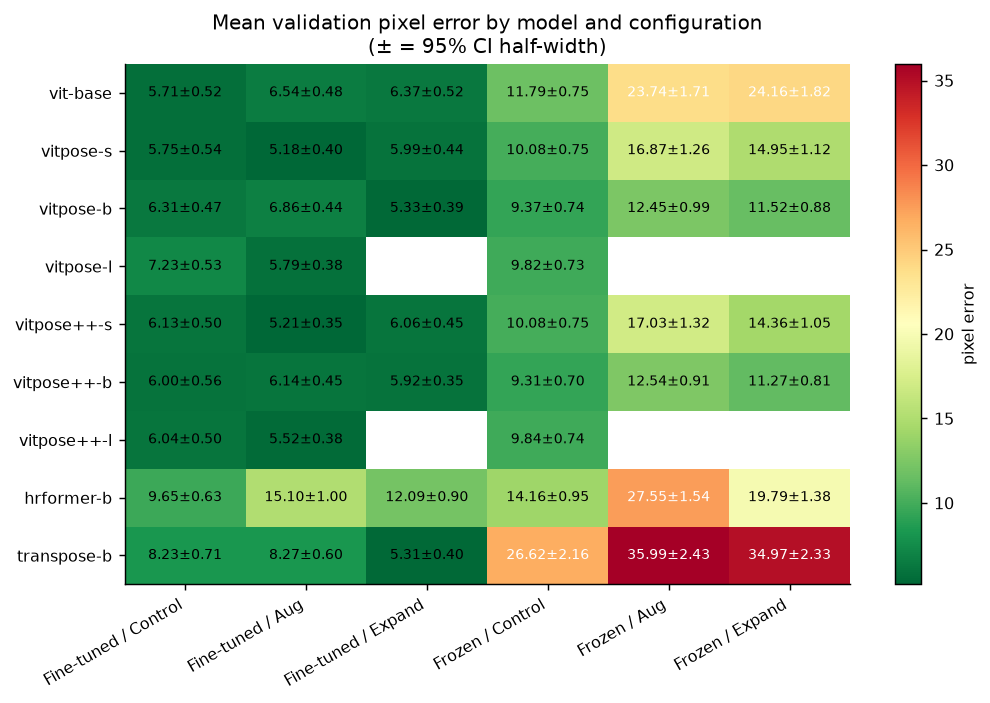
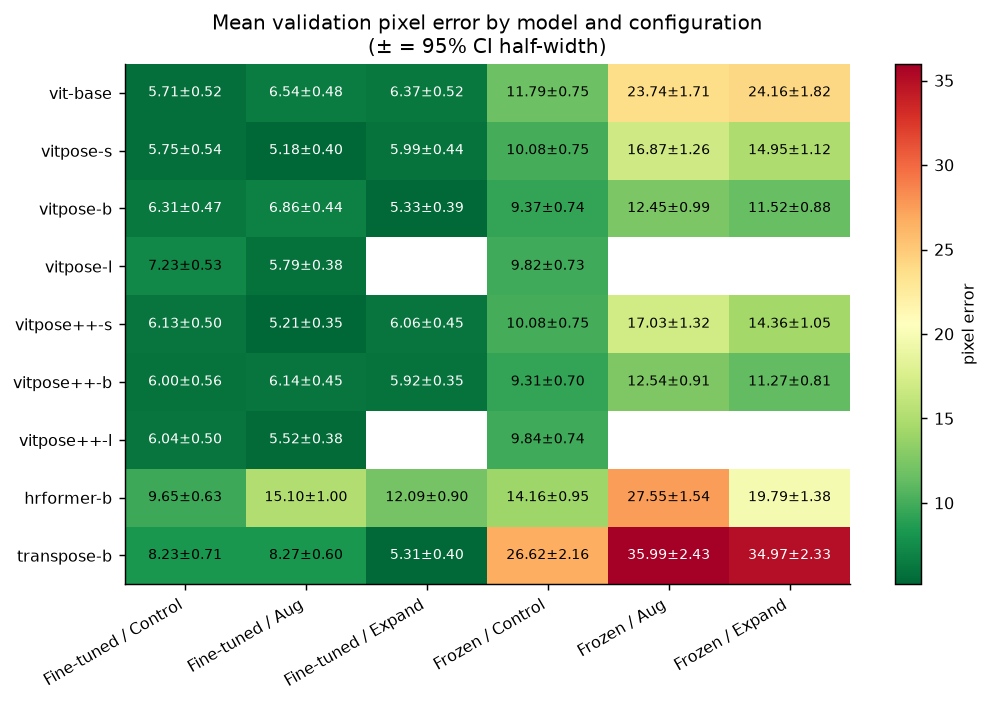
fix(figures): pick label colour by luminance, at the AA crossover
The old rule compared the cell VALUE to a midpoint, which cannot work for
RdYlGn_r: the map is dark at both ends and light in the middle, so the
low-error cells (dark green) and the high-error cells (dark red) both need
light text while the yellow midrange needs dark text. One threshold over the
data range cannot express that.

Decide on the relative luminance of the colour actually rendered instead, which
is independent of the colormap and of the data.

The cutoff is 0.18, and that is not an eyeballed midpoint. White text on
luminance L has contrast 1.05 / (L + 0.05), clearing 4.5:1 only while
L <= 0.1833; black has (L + 0.05) / 0.05, clearing it only once L >= 0.175.
Any cutoff inside [0.175, 0.1833] therefore leaves no background that fails.
An earlier attempt used 0.36, which looks reasonable and is not: it puts white
text on a mid-dark cell at 2.56:1, well under AA at this 7.5pt label size.

Verified by recomputing every rendered cell: 48 checked, 0 AA failures, worst
ratio 4.64:1 (vitpose-l Fine-tuned/Control, L=0.182 -> black).

Claude-Session: https://claude.ai/code/session_013jqiJa39kimoxMNRRpBsg9

diff --git a/scripts/make_figures.py b/scripts/make_figures.py
@@ -83,6 +83,31 @@ def _grid(rows: Sequence[AggregatedRow], attribute: str) -> np.ndarray:
     )
 
 
+def _readable_text_color(rgba: Sequence[float]) -> str:
+    """Pick black or white for a label drawn on ``rgba``.
+
+    A single value threshold does not work for a diverging map such as
+    ``RdYlGn_r``, which is dark at both ends and light in the middle: the
+    low-error cells are dark green and the high-error cells are dark red,
+    so both need light text while the yellow midrange needs dark text.
+    Deciding on the relative luminance of the colour actually rendered is
+    independent of the colormap and of the data range.
+    """
+    channels = []
+    for component in rgba[:3]:
+        channels.append(
+            component / 12.92 if component <= 0.04045 else ((component + 0.055) / 1.055) ** 2.4
+        )
+    luminance = 0.2126 * channels[0] + 0.7152 * channels[1] + 0.0722 * channels[2]
+    # 0.18 is not an eyeballed midpoint, it is the crossover where BOTH choices clear
+    # WCAG AA. White text on luminance L has contrast 1.05 / (L + 0.05), which reaches
+    # 4.5:1 only while L <= 0.1833; black has (L + 0.05) / 0.05, which reaches it only
+    # once L >= 0.175. Any cutoff inside [0.175, 0.1833] therefore leaves no background
+    # that fails. A higher value looks reasonable and is not: at 0.36 a mid-dark cell
+    # gets white text at 2.56:1, which fails badly at this 7.5pt label size.
+    return "black" if luminance > 0.18 else "white"
+
+
 def figure_error_grid(rows: Sequence[AggregatedRow], out: Path) -> Path:
     """Heat map of mean validation pixel error with 95% interval half-widths."""
     values = _grid(rows, "best_pixel_error")
@@ -95,8 +120,6 @@ def figure_error_grid(rows: Sequence[AggregatedRow], out: Path) -> Path:
     ax.set_title("Mean validation pixel error by model and configuration\n(± = 95% CI half-width)")
     ax.grid(False)
 
-    finite = values[np.isfinite(values)]
-    midpoint = finite.min() + 0.55 * (finite.max() - finite.min()) if finite.size else 0.0
     for i in range(values.shape[0]):
         for j in range(values.shape[1]):
             value = values[i, j]
@@ -110,7 +133,7 @@ def figure_error_grid(rows: Sequence[AggregatedRow], out: Path) -> Path:
                 ha="center",
                 va="center",
                 fontsize=7.5,
-                color="white" if value > midpoint else "black",
+                color=_readable_text_color(image.cmap(image.norm(value))),
             )
     fig.colorbar(image, ax=ax, label="pixel error")
     path = out / "error_grid.png"
